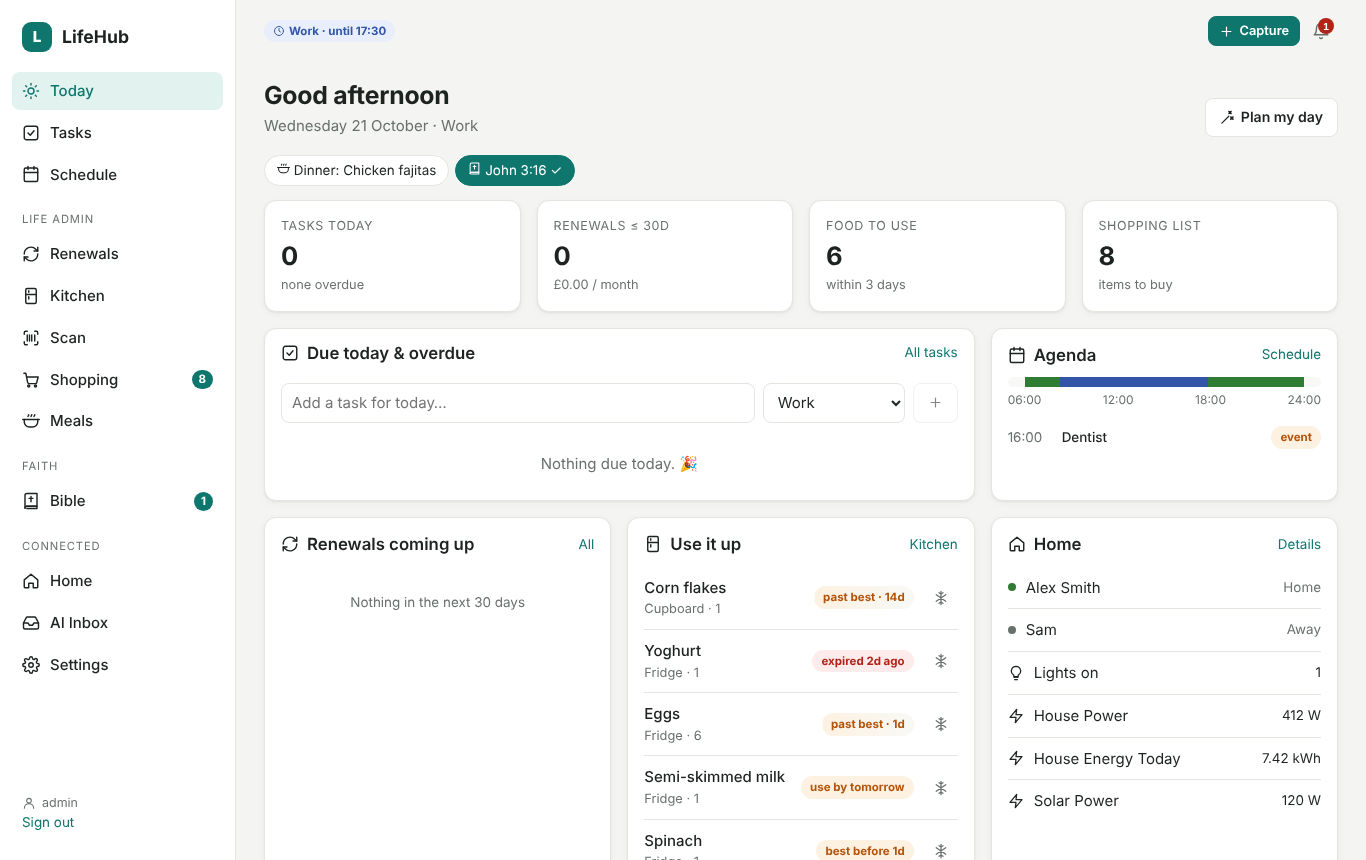
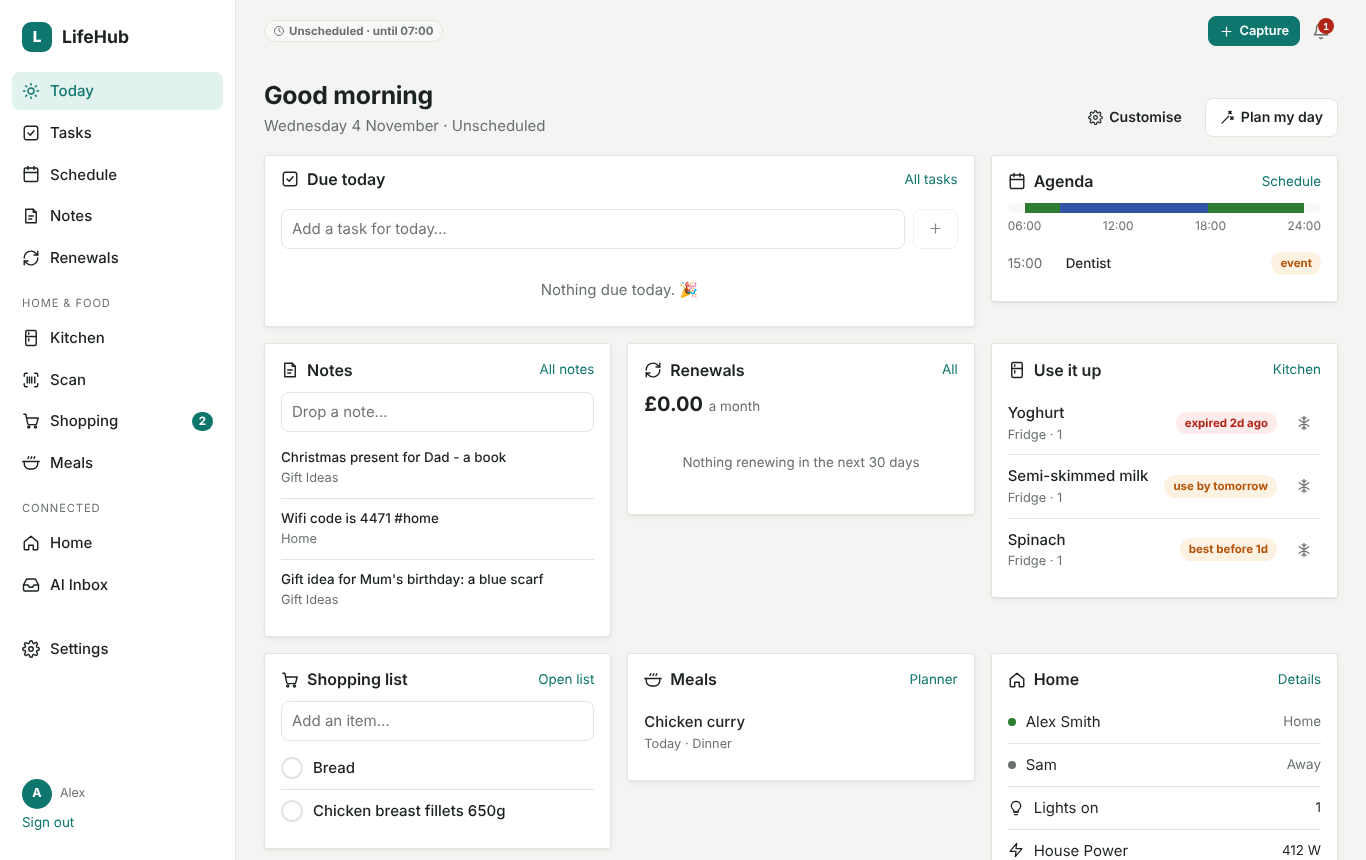
3.0: libnotify for Linux, changelogs, new screenshots
Claude-Session: https://claude.ai/code/session_01UMYquwnDKTsg8z31hFx4Lj

diff --git a/CHANGELOG.md b/CHANGELOG.md
@@ -9,6 +9,55 @@ on the add-on page. That file is a shorter version of this one.
 
 ## [Unreleased]
 
+## [3.0.0] – 2026-11-04
+
+LifeHub 3 is a clean-up for publishing: Bible features have moved to their own app, the app is
+modular and restyleable, and it installs on Windows, macOS and Linux with a setup assistant.
+
+### Added
+- **Desktop apps with installers**, with everything included (their own .NET runtime; WebView2 on
+  Windows if missing; WebKitGTK pulled in by the Linux package):
+  - Windows 10/11: `LifeHub-<v>-Windows-x64-Setup.exe` (per-user, no admin; Start-menu entries for
+    LifeHub and the setup assistant; uninstaller removes the service and offers to delete data)
+  - macOS 12+: `.dmg` for Apple Silicon and Intel (unsigned, ad-hoc signed)
+  - Linux: `.deb` and `.tar.gz` with `install.sh`, for amd64 and arm64
+- **Setup assistant** on first launch (and `--setup` / Settings → This computer later). Choose:
+  - **This computer only**: LifeHub runs inside the app on `127.0.0.1`
+  - **This computer + my phone**: a background service when you sign in
+  - **A server for my household**: a background service that starts with the computer
+    (Windows service / LaunchDaemon / systemd with lingering) or when you sign in
+  - **Docker**: pulls and runs `ghcr.io/shotgn16/lifehub`, then shows it
+  - **Home Assistant** or **LifeHub somewhere else**: the app becomes a window onto it
+
+  It then creates your account, **checks for Ollama and offers to install it** with a model sized
+  for your computer's memory (or skip and set it up in Settings → AI), and shows your phone's
+  address and API key.
+- **Modules**: every section (menu entry, home-screen card, badge, bottom-bar button) is a module
+  registered in one place. **Settings → Modules** switches sections off for the household.
+  Developers add a section with one registration (see `docs/extending.md`).
+- **Make it yours**: per-person theme (auto/light/dark), accent colour, density and home-screen
+  layout (**Customise** on Today); admins can add **Custom CSS** (or `custom.css` in the data folder)
+  on top of design tokens in `wwwroot/css/theme.css`.
+- **Share page** (`/share`): text shared from the phone becomes a note, a task or shopping items.
+- General multi-arch Docker image `ghcr.io/shotgn16/lifehub:<version>` / `:latest`.
+- Releases now attach every installer, the Android APK, the unsigned iPhone/iPad IPA and a
+  portable server zip, with SHA-256 checksums.
+- **Manual** (`docs/manual/`): easy step-by-step guides for each platform, phones, a household
+  server, customising, the AI and common problems.
+
+### Changed
+- Redesigned home screen built from module cards, and a cleaner menu grouped by section.
+- Phone apps 1.2.0: Bible features removed; the share menu opens the new share page; the Android
+  app no longer asks for Usage access; new **Tasks** home-screen shortcut.
+- MailKit 4.16.0 (security fix for STARTTLS handling).
+
+### Removed
+- **Bible tracking, verse of the day, reading plans, studies, starter notes and Bible insights** —
+  now in their own app. On upgrade, **Settings → Backup → Bible data from LifeHub 2** exports
+  everything to a zip and then deletes it. The `/api/v1/bible/*` endpoints and
+  `sensor.lifehub_bible_streak*` are gone; older phone apps' Bible offline changes are skipped.
+- PdfPig dependency (only used for study notes).
+
 ## [2.2.0] – 2026-11-02
 
 ### Added

diff --git a/lifehub/CHANGELOG.md b/lifehub/CHANGELOG.md
@@ -1,5 +1,15 @@
 # Changelog
 
+## 3.0.0
+- **Bible features have moved to their own app.** Before anything is deleted, go to
+  **Settings → Backup → Bible data from LifeHub 2** to export it to a zip, then delete it.
+- **Cleaner, modular design**: switch sections on or off in **Settings → Modules**, arrange your
+  home screen with **Customise**, and pick your own theme and accent colour in
+  **Settings → Appearance**.
+- New desktop apps for Windows, macOS and Linux (they can also set LifeHub up in Docker or point
+  at this add-on), and phone apps 1.2.0.
+- Security update for email (MailKit 4.16.0).
+
 ## 2.2.0
 - The phone apps now **work offline**: your tasks, shopping list, notes, meals and Bible reading
   are kept on the phone. Anything you add or tick off is sent to LifeHub automatically when it's

diff --git a/docs/manual/customise.md b/docs/manual/customise.md
@@ -4,6 +4,9 @@
 
 **Settings → Appearance** — each person chooses their own:
 
+<img src="../images/appearance.png" alt="Settings → Appearance" width="80%">
+
+
 - **Theme**: Automatic (follows your computer or phone), Light or Dark.
 - **Accent colour**: the colour of buttons, links and highlights.
 - **Density**: Comfortable, or Compact to fit more on screen.
@@ -14,6 +17,8 @@ On **Today**, press **Customise**: tick the cards you want, and use the arrows t
 order. Each person has their own layout.
 
 ## Sections (admins)
+
+<img src="../images/modules.png" alt="Settings → Modules" width="60%">
 
 **Settings → Modules** turns whole sections on or off for the household — for example, switch off
 **Kitchen**, **Scan**, **Shopping** and **Meals** if you only want tasks and renewals. They

diff --git a/docs/manual/problems.md b/docs/manual/problems.md
@@ -6,7 +6,7 @@
 |---|---|
 | Windows: "Windows protected your PC" | **More info → Run anyway**. LifeHub isn't signed with a paid certificate yet. |
 | Mac: "LifeHub can't be opened" / "Apple could not verify…" | **System Settings → Privacy & Security → Open Anyway** (once). See [Mac](mac.md). |
-| Linux: the window is blank or doesn't open | Install WebKitGTK: `sudo apt install libwebkit2gtk-4.1-0` (Fedora: `sudo dnf install webkit2gtk4.1`). |
+| Linux: the window is blank or doesn't open | Install WebKitGTK: `sudo apt install libwebkit2gtk-4.1-0 libnotify4` (Fedora: `sudo dnf install webkit2gtk4.1 libnotify`). |
 | Windows: the window is blank | Install [Microsoft Edge WebView2](https://developer.microsoft.com/microsoft-edge/webview2/) (the installer normally does this). |
 
 ## Starting
